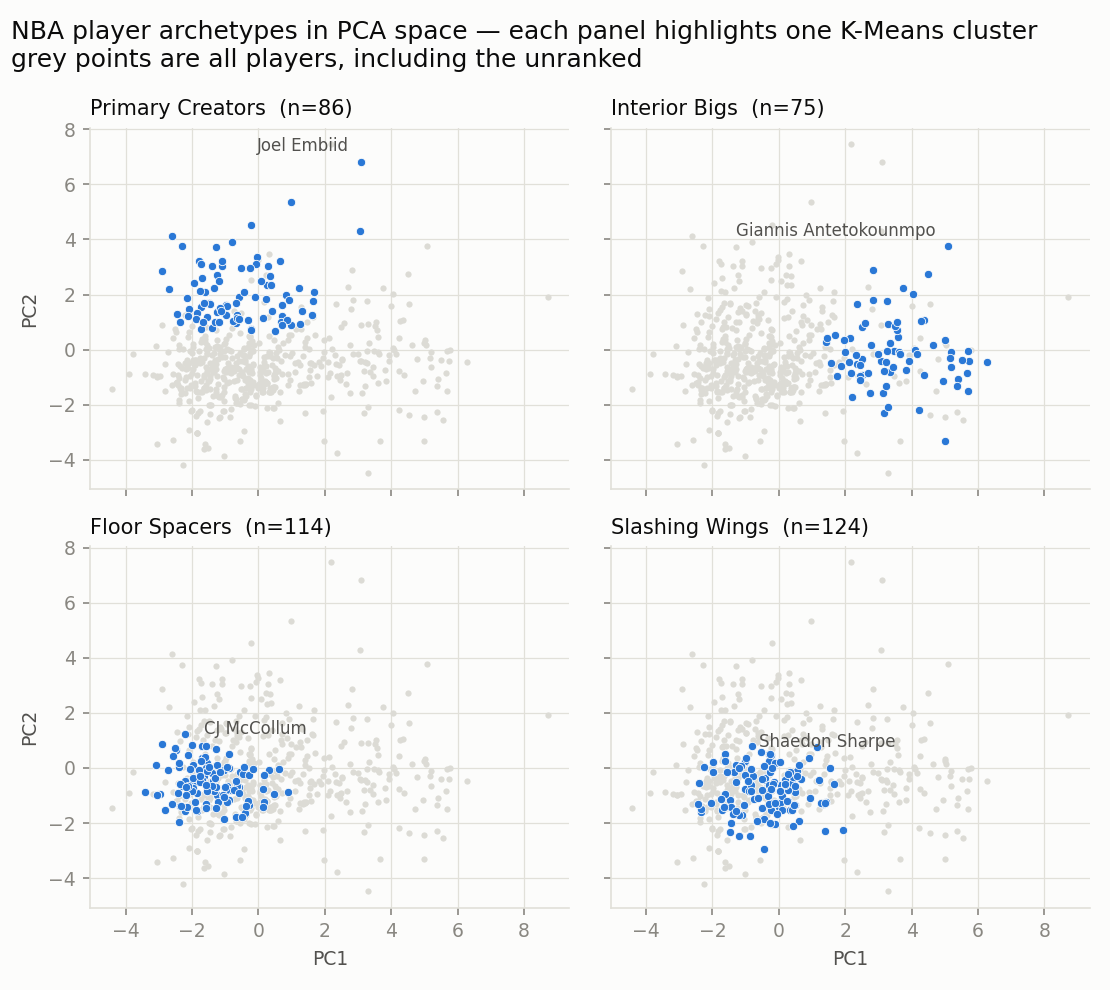
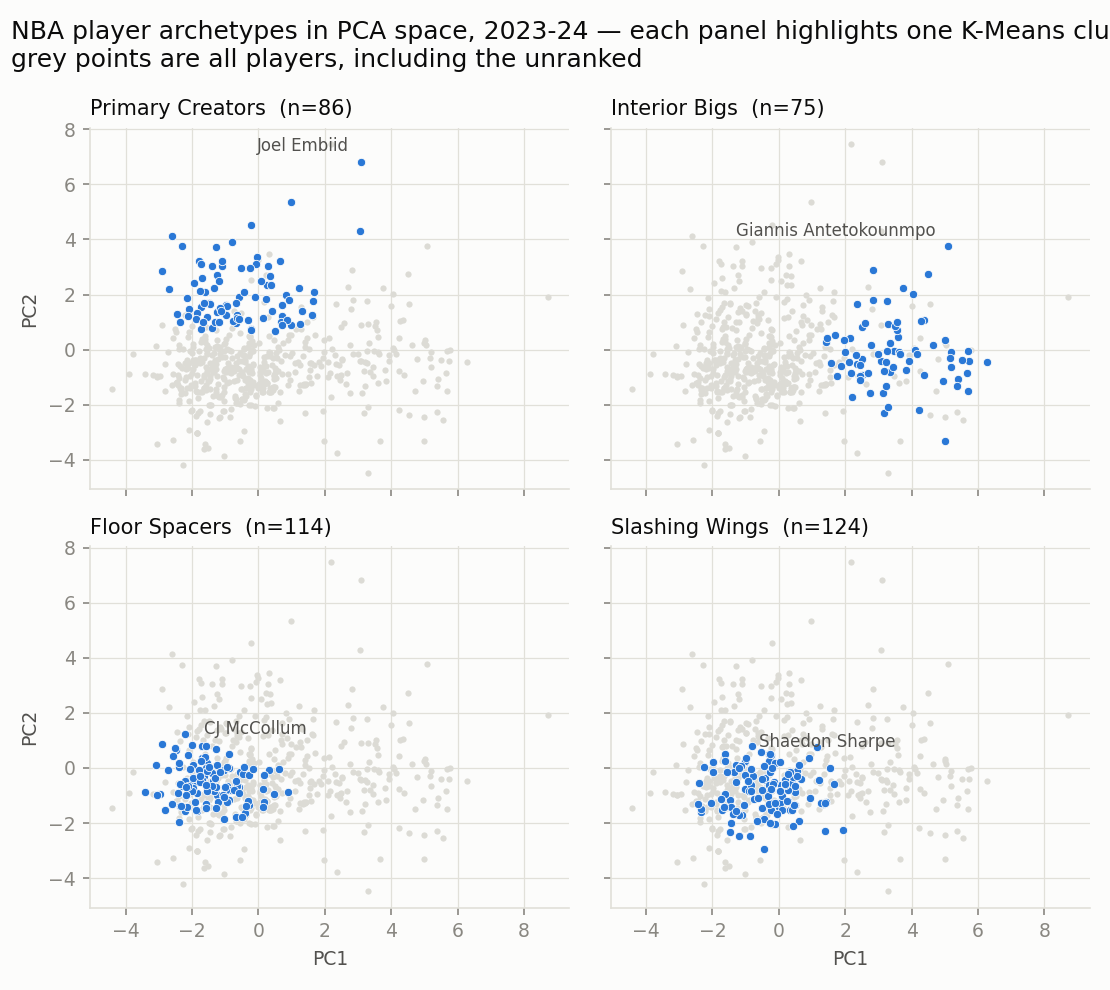
Record which season the data covers (#21)
Nothing in the repo said which season nba_stats.csv describes -- not the
CSV header, not the README -- so it was inferrable only by recognising
player ages, leaving the figures and archetype names undatable.

It is 2023-24, confirmed against the data (Wembanyama age 20 / 71 games /
21.4 PPG, Embiid 39 games / 34.7 PPG). config.SEASON, SEASON_END_YEAR,
SOURCE_NAME and SOURCE_URL now record it, and it is surfaced in the
dashboard title, the sidebar, both generated figures and the README's
data-source table.

Changed region(s): [[0.4288, 0.0, 0.9495, 0.0606], [0.9802, 0.0303, 1.0, 0.0606]]

diff --git a/app.py b/app.py
@@ -142,7 +142,7 @@ def MetricCard(label: str, value: str, caption: str = ""):
 
 @solara.component
 def Page():
-    solara.Title("NBA Player Clustering Dashboard")
+    solara.Title(f"NBA Player Archetypes — {config.SEASON}")
     solara.Style(CUSTOM_CSS)
 
     data = load_data()
@@ -157,6 +157,11 @@ def Page():
     archetype = str(player_row["Archetype"])
 
     with solara.Sidebar():
+        solara.Markdown(
+            f"**{config.SEASON} season** · per-game stats from "
+            f"[{config.SOURCE_NAME}]({config.SOURCE_URL})",
+            style={"font-size": "12px", "color": "#888"},
+        )
         solara.Markdown("## Player")
         solara.Select(
             label="Select Player",
@@ -319,4 +324,7 @@ def Page():
 
 @solara.component
 def Layout(children):
-    return solara.AppLayout(children=children, title="NBA Player Clustering")
+    return solara.AppLayout(
+        children=children,
+        title=f"NBA Player Archetypes · {config.SEASON}",
+    )

diff --git a/make_figures.py b/make_figures.py
@@ -95,8 +95,8 @@ def fig_pca_facets(df: pd.DataFrame) -> str:
     for ax in axes.ravel()[len(archetypes.ARCHETYPES):]:
         ax.set_visible(False)
     fig.suptitle(
-        "NBA player archetypes in PCA space — each panel highlights one K-Means cluster\n"
-        "grey points are all players, including the unranked",
+        f"NBA player archetypes in PCA space, {config.SEASON} — each panel highlights "
+        "one K-Means cluster\ngrey points are all players, including the unranked",
         x=0.01, ha="left", fontsize=12, color=INK,
     )
     fig.tight_layout()
@@ -192,7 +192,7 @@ def fig_cluster_profiles(df: pd.DataFrame) -> str:
     for spine in cbar.ax.spines.values():
         spine.set_visible(False)
     ax.set_title(
-        "Cluster statistical profiles — what separates each archetype",
+        f"Cluster statistical profiles, {config.SEASON} — what separates each archetype",
         loc="left", color=INK, pad=10,
     )
     fig.tight_layout()

diff --git a/config.py b/config.py
@@ -5,6 +5,18 @@ validate_model.py, app.py, and the test suite, so they can't drift out
 of sync (e.g. app.py's cluster labels vs. preprocess.py's cluster count).
 """
 
+# --- Provenance ------------------------------------------------------------
+# Which season the committed CSV covers. The file itself records this nowhere:
+# it was inferrable only by recognising player ages and rosters, which left the
+# figures, the archetype names and the README undatable. Confirmed against the
+# data (Wembanyama age 20 / 71 games / 21.4 PPG; Embiid 39 games / 34.7 PPG).
+SEASON: str = "2023-24"
+
+#: Basketball-Reference labels a season by its end year.
+SEASON_END_YEAR: int = 2024
+SOURCE_NAME: str = "Basketball-Reference"
+SOURCE_URL: str = f"https://www.basketball-reference.com/leagues/NBA_{SEASON_END_YEAR}_per_game.html"
+
 INPUT_FILE: str = "nba_stats.csv"
 OUTPUT_FILE: str = "processed_nba_stats.csv"
 

diff --git a/README.md b/README.md
@@ -2,6 +2,8 @@
 
 An interactive web application built with [Solara](https://solara.dev/) and [Plotly](https://plotly.com/) to cluster NBA players into four playing-style archetypes — **Primary Creators, Interior Bigs, Floor Spacers, Slashing Wings** — and visualize their profiles using radar charts.
 
+**Season: 2023-24.** Per-game stats from [Basketball-Reference](https://www.basketball-reference.com/leagues/NBA_2024_per_game.html), committed as `nba_stats.csv`.
+
 ## Tech Stack
 
 ![Python](https://img.shields.io/badge/Python-3776AB?style=for-the-badge&logo=python&logoColor=white)
@@ -321,7 +323,17 @@ Then open http://localhost:8765.
 The build **gates the model it bakes in**: `preprocess.py`, `select_k.py --check` and `validate_model.py` run chained in a single layer, so a build cannot produce an image carrying a degenerate clustering. The container runs as the unprivileged `appuser` (uid 10001), not root.
 
 ## Data Source
-The project uses NBA player per-game stats sourced from [Basketball-Reference](https://www.basketball-reference.com/), committed to this repo as `nba_stats.csv` so the pipeline runs end-to-end from a fresh clone with no manual data-fetch step.
+
+| | |
+|---|---|
+| **Season** | 2023-24 (`config.SEASON`) |
+| **Source** | [Basketball-Reference — NBA 2023-24 per game](https://www.basketball-reference.com/leagues/NBA_2024_per_game.html) |
+| **File** | `nba_stats.csv`, committed |
+| **Rows** | 735 raw → 572 after collapsing traded players → 399 clustered |
+
+The season used to be recorded nowhere — not in the CSV header, not in the README — and was inferrable only from player ages, which left the figures and archetype names undatable. It now lives in `config.SEASON` and is surfaced in the dashboard title, the sidebar, and both generated figures. (Confirmed against the data: Wembanyama age 20 / 71 games / 21.4 PPG, Embiid 39 games / 34.7 PPG.)
+
+The stats are committed to this repo so the pipeline runs end-to-end from a fresh clone with no manual data-fetch step.
 
 The file is semicolon-delimited (`;`) with `latin1` encoding and includes, per player-season row: identity/context columns (`Rk`, `Player`, `Pos`, `Age`, `Tm`, `G`, `GS`, `MP`), traditional counting stats (`PTS`, `TRB`, `AST`, `STL`, `BLK`, `ORB`, `DRB`, `TOV`, `PF`), and shooting stats with makes/attempts/percentages (`FG`/`FGA`/`FG%`, `3P`/`3PA`/`3P%`, `2P`/`2PA`/`2P%`, `eFG%`, `FT`/`FTA`/`FT%`). Players traded mid-season have a `Tm == 'TOT'` row aggregating their full-season totals, which `preprocess.py` uses in preference to the per-team split rows.
 
